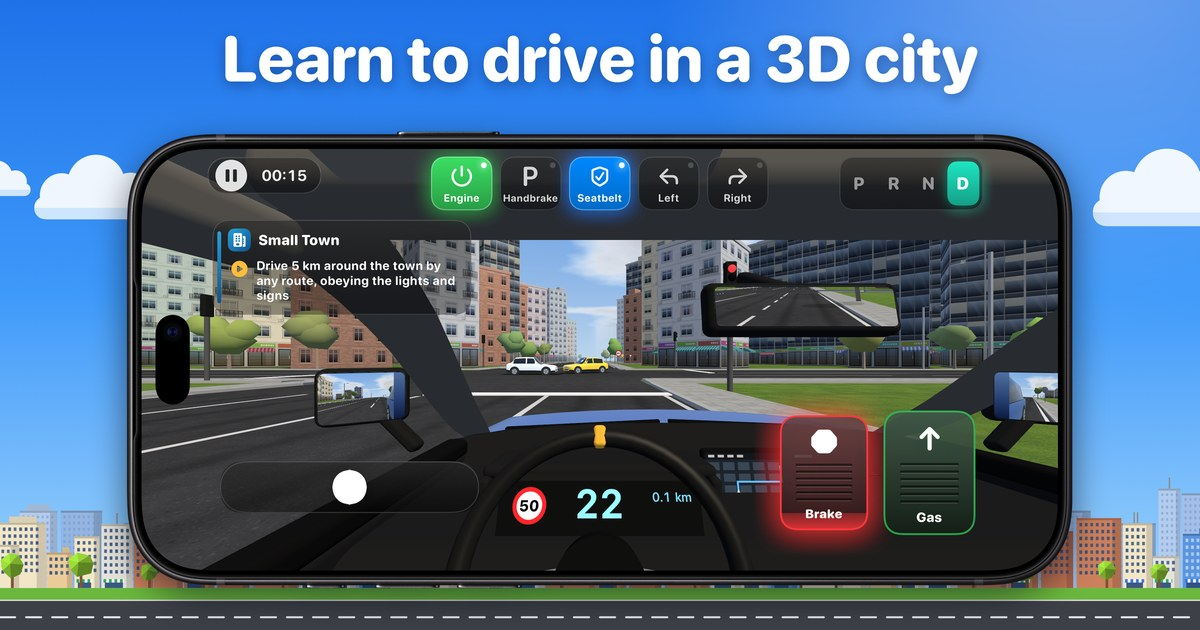
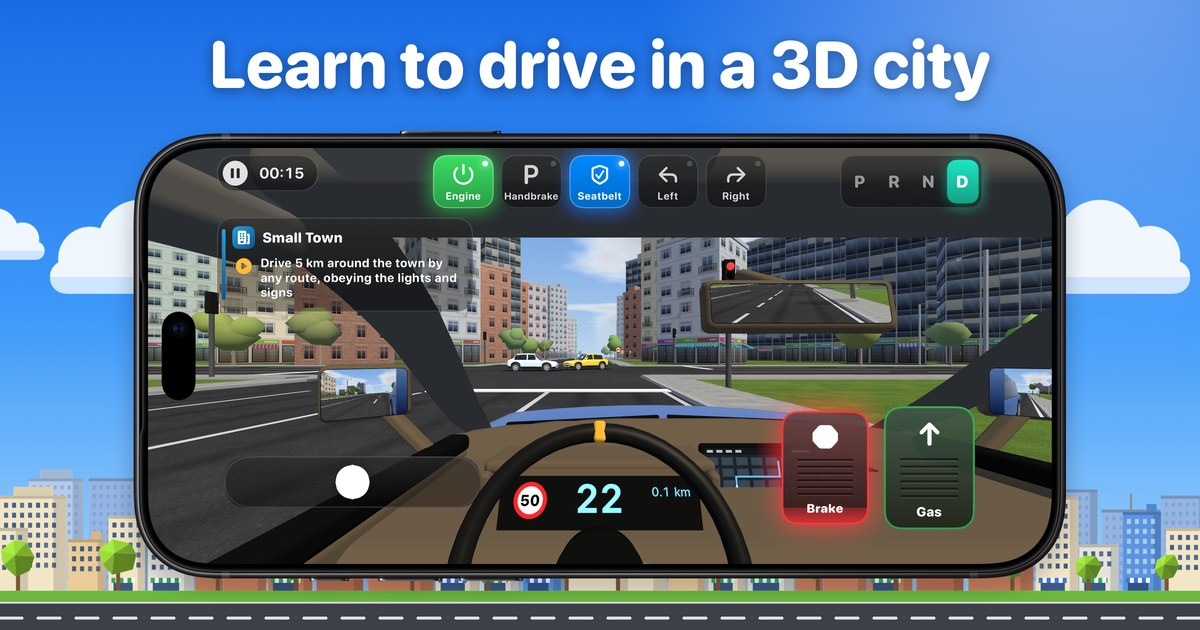
2.5 screenshots, hero, share image and city view; pause button text

diff --git a/marketing.html b/marketing.html
@@ -52,7 +52,7 @@
         </div>
         <p class="meta">Free with optional lesson packs · iPhone and iPad · iOS 17 or later</p>
         <div class="hero-shot">
-          <img src="assets/cockpit.webp" width="1600" height="784" alt="City Drive on iPhone: the cockpit at a red light in Small Town, with the steering slider, Brake and Gas pedals, Engine, Handbrake, Seatbelt and indicator switches, the P-R-N-D selector and live mirrors" />
+          <img src="assets/cockpit.webp" width="1600" height="772" alt="City Drive on iPhone: the cockpit at a red light in Small Town, with the steering slider, Brake and Gas pedals, Engine, Handbrake, Seatbelt and indicator switches, the P-R-N-D selector and live mirrors" />
         </div>
         <ul class="facts">
           <li class="chip">Dozens of lessons</li>
@@ -199,13 +199,14 @@
 
       <h2 class="section-label">Screenshots</h2>
       <div class="screens" tabindex="0" aria-label="Screenshots, scroll sideways">
-        <img src="assets/screens/screen-1.webp" width="1600" height="736" alt="Learn to drive in a 3D city: the cockpit at a red light in Small Town" />
-        <img src="assets/screens/screen-2.webp" width="1600" height="736" loading="lazy" alt="28 lessons, every move mapped out: the Driving School menu with the Three-Point Turn card" />
-        <img src="assets/screens/screen-3.webp" width="1600" height="736" loading="lazy" alt="An instructor at your side: step-by-step guidance before a right turn" />
-        <img src="assets/screens/screen-4.webp" width="1600" height="736" loading="lazy" alt="Real mirrors, real traffic: moving back into the right lane after overtaking" />
-        <img src="assets/screens/screen-5.webp" width="1600" height="736" loading="lazy" alt="Drive on ice and snow: Small Town in Winter" />
-        <img src="assets/screens/screen-6.webp" width="1600" height="736" loading="lazy" alt="Tilt the phone to steer: the race track, with the wheel in the cabin turned" />
-        <img src="assets/screens/screen-7.webp" width="1600" height="736" loading="lazy" alt="Make the car yours: paint colors and interiors in the garage" />
+        <img src="assets/screens/screen-1.webp" width="1600" height="736" alt="Learn to drive in a 3D city: braking for a red light in Small Town as cars cross the intersection" />
+        <img src="assets/screens/screen-2.webp" width="1600" height="736" loading="lazy" alt="Every move mapped out: the main screen with the Continue card and a tile for each section of lessons" />
+        <img src="assets/screens/screen-3.webp" width="1600" height="736" loading="lazy" alt="An instructor at your side: slowing for the STOP line with the right indicator on before a right turn" />
+        <img src="assets/screens/screen-4.webp" width="1600" height="736" loading="lazy" alt="Real mirrors, real traffic: moving back into the right lane, the overtaken car in the mirror" />
+        <img src="assets/screens/screen-5.webp" width="1600" height="736" loading="lazy" alt="Master tight spots: driving around roadworks in the oncoming lane while a van waits ahead" />
+        <img src="assets/screens/screen-6.webp" width="1600" height="736" loading="lazy" alt="Drive on ice and snow: Small Town in Winter" />
+        <img src="assets/screens/screen-7.webp" width="1600" height="736" loading="lazy" alt="Tilt to steer: the race track, with the wheel in the cabin turned" />
+        <img src="assets/screens/screen-8.webp" width="1600" height="736" loading="lazy" alt="Make the car yours: paint colors and interiors in the garage" />
       </div>
       <p class="swipe-hint">Swipe or scroll sideways for more</p>
 

diff --git a/support.html b/support.html
@@ -200,7 +200,7 @@
 
       <details class="card">
         <summary>How do I pause, and what happens if I get a call?</summary>
-        <div class="answer"><p>Tap the pause button next to the timer. The lesson also pauses on its own when you get a call, open Control Center or switch apps. From the pause panel you can continue, retry, open Settings or go back to the menu.</p></div>
+        <div class="answer"><p>Tap the pause button at the left end of the timer, in the top-left corner. The lesson also pauses on its own when you get a call, open Control Center or switch apps. From the pause panel you can continue, retry, open Settings or go back to the menu.</p></div>
       </details>
 
       <details class="card">
